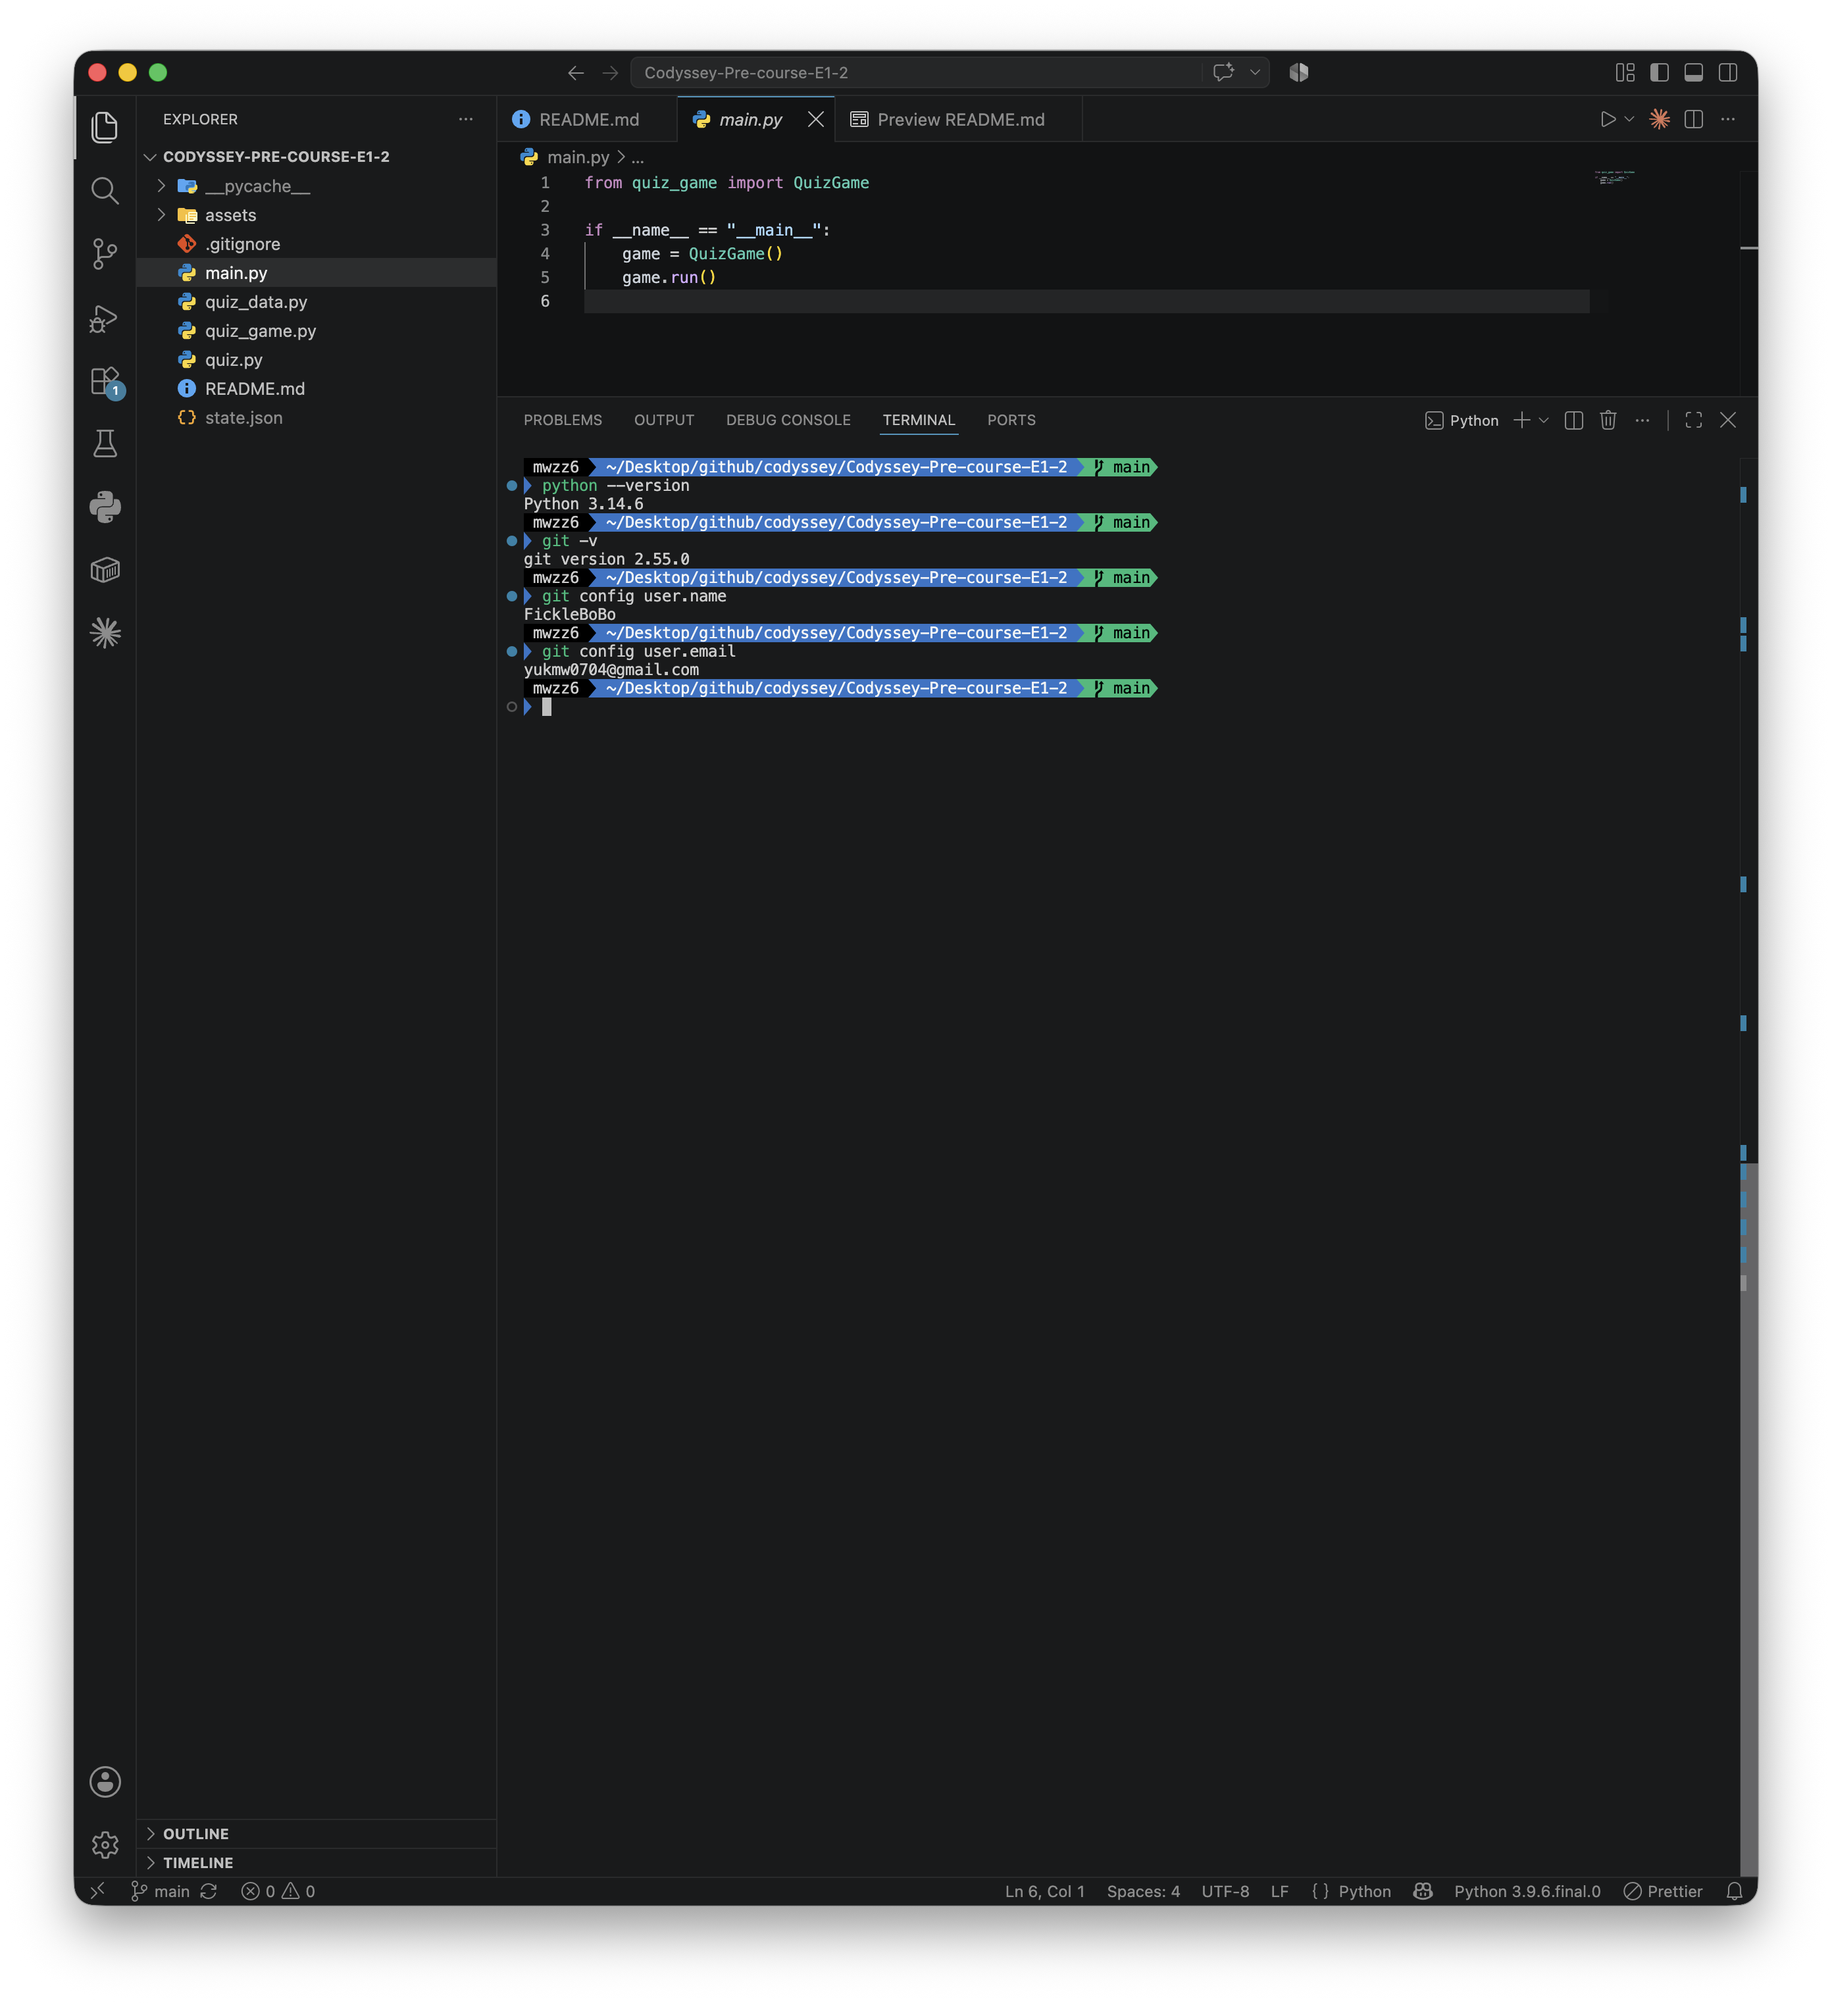
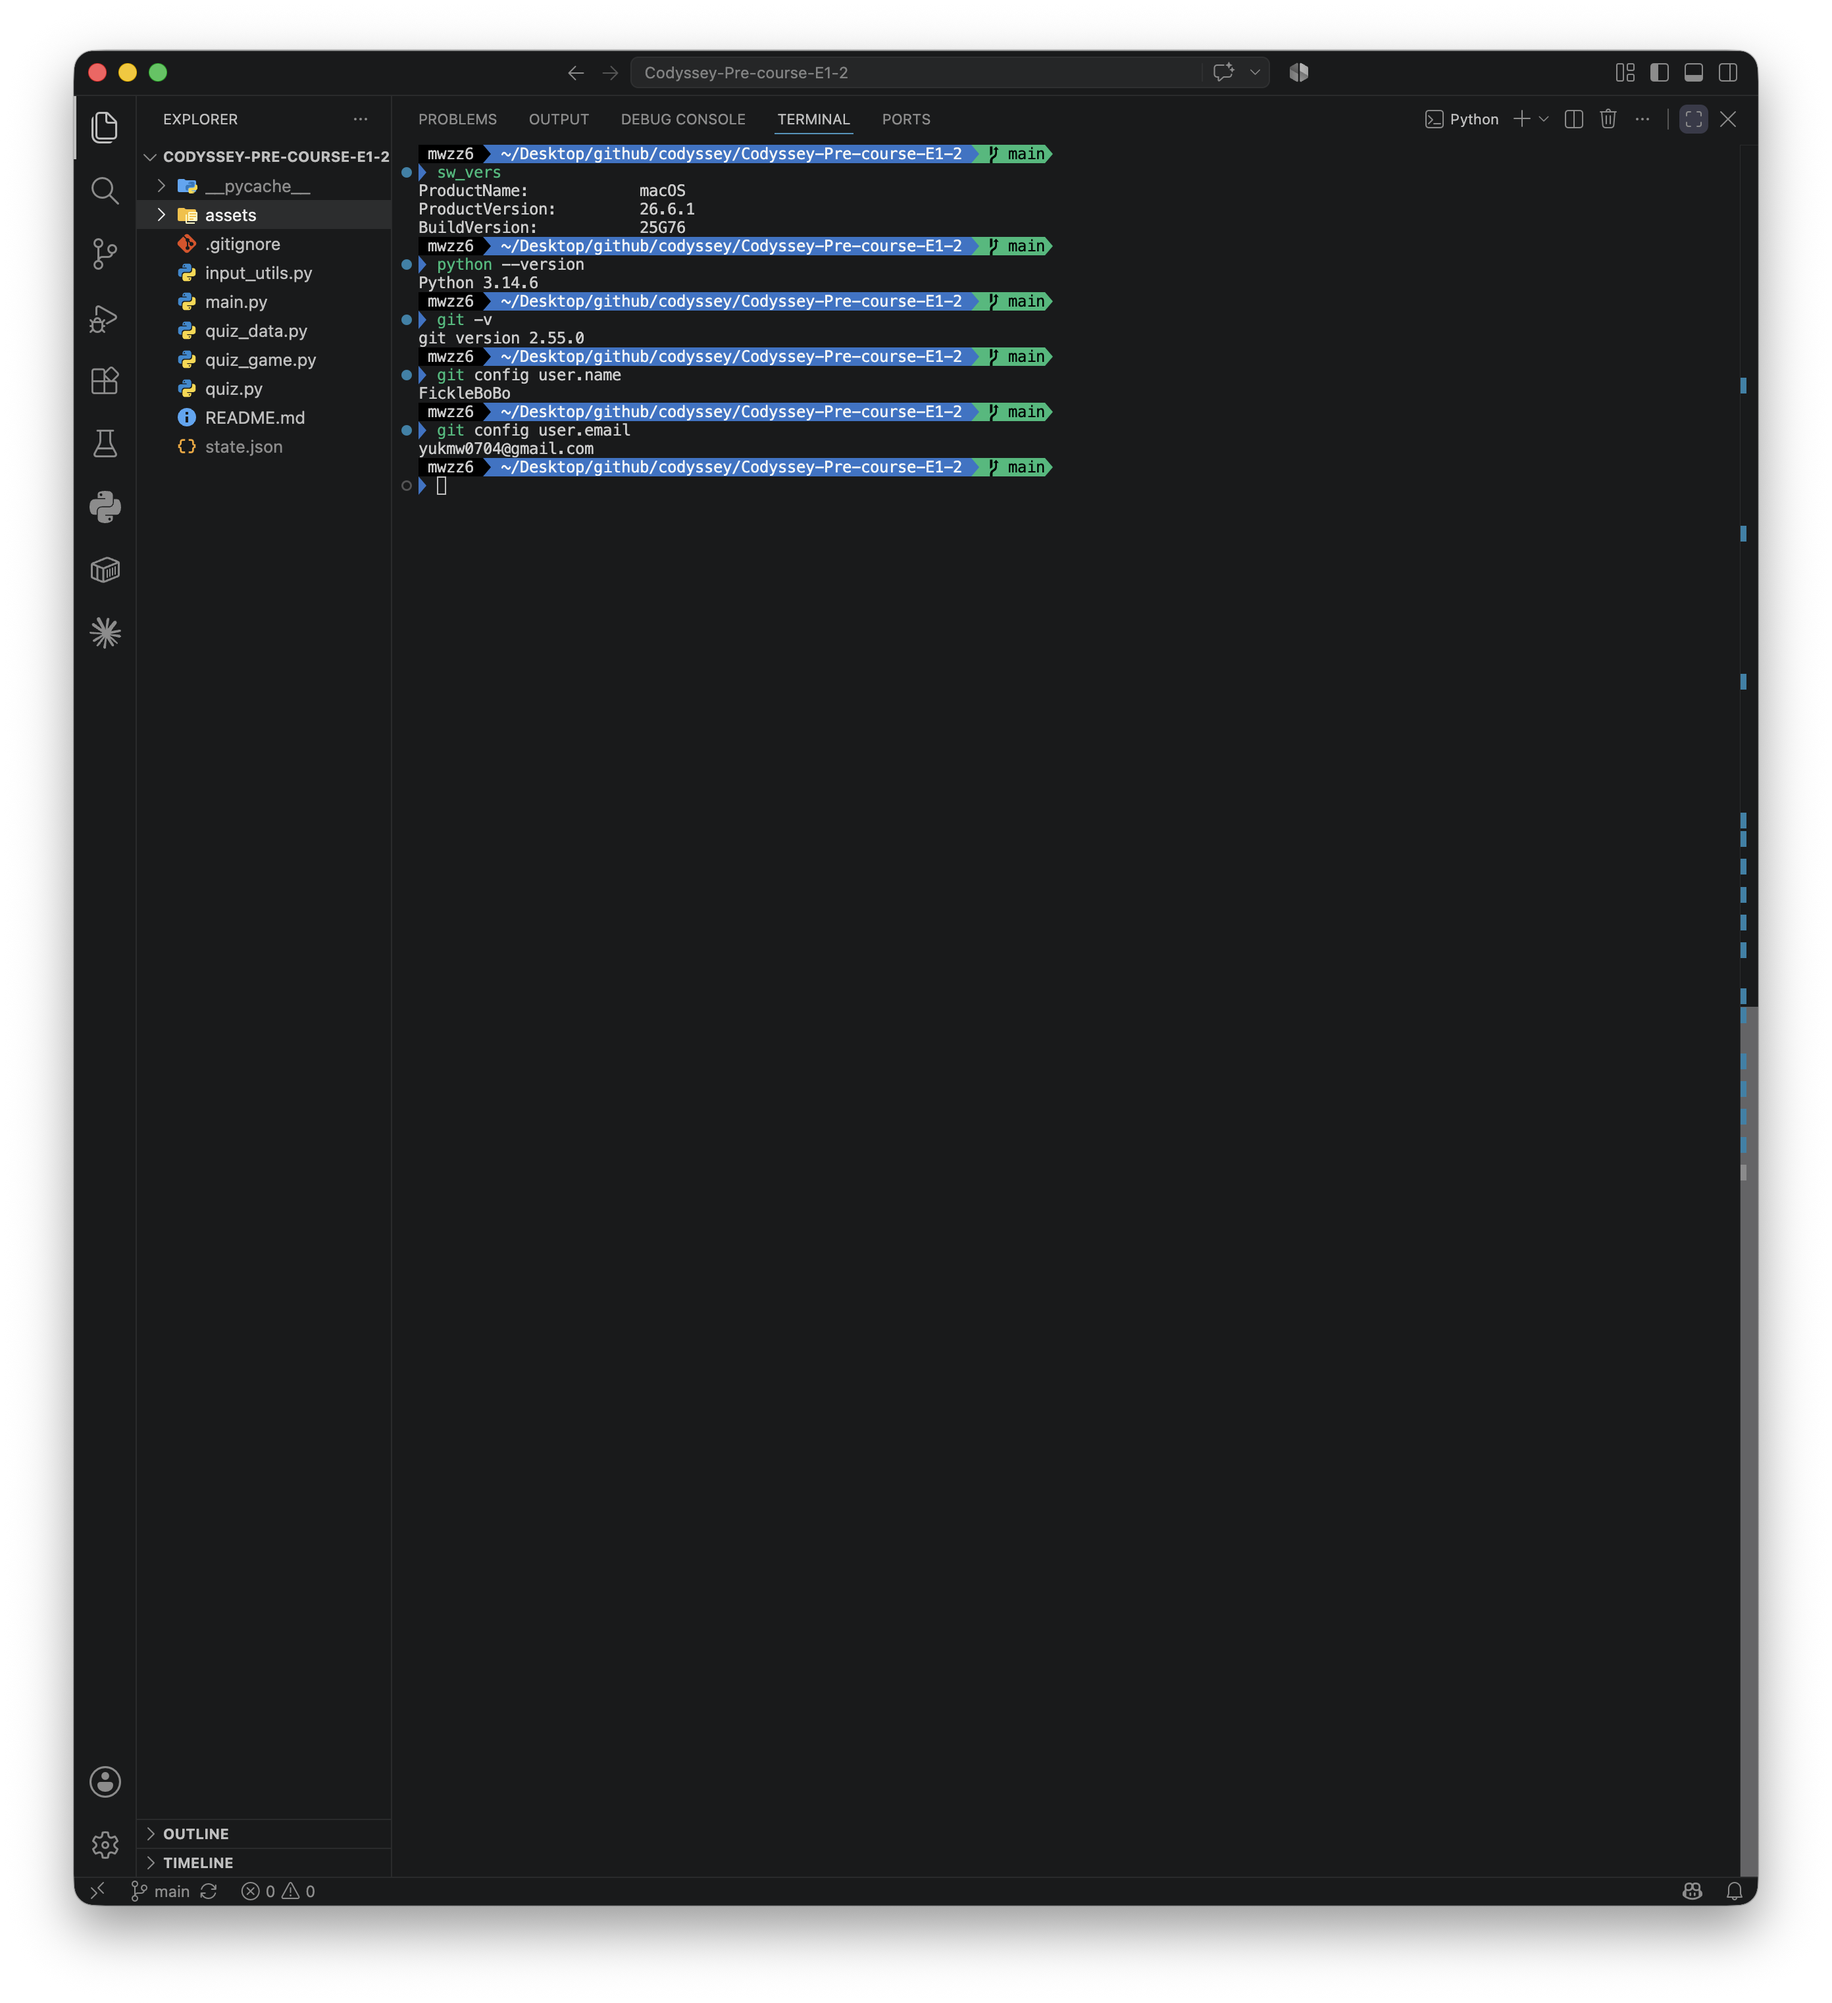
docs: 실행 화면 스크린샷 및 Git 히스토리 재촬영, README 최신화

diff --git a/README.md b/README.md
@@ -54,13 +54,31 @@ python main.py
 
 ## 실행 화면
 
-**퀴즈 풀기**
+메뉴 1번부터 6번까지 순서대로 실제 실행한 화면.
+
+**1. 퀴즈 풀기** — 풀 문제 수 선택 → 무작위 순서로 출제 → 정답 대신 `0` 입력 시 힌트 확인 → 결과 및 최고 점수 갱신 여부 표시
 
 ![퀴즈 풀기](assets/quiz_play.png)
 
-**퀴즈 추가 / 퀴즈 목록 / 점수 확인** (재실행 후 저장된 데이터 불러오기 확인 포함)
+**2. 퀴즈 추가** — 문제/선택지 4개/정답 번호/힌트를 입력받아 등록
 
-![퀴즈 추가, 퀴즈 목록, 점수 확인](assets/quiz_add_list_score.png)
+![퀴즈 추가](assets/quiz_add.png)
+
+**3. 퀴즈 삭제** — 목록에서 번호를 선택해 삭제
+
+![퀴즈 삭제](assets/quiz_delete.png)
+
+**4. 퀴즈 목록** — 삭제 후 갱신된 목록 확인 (저장된 데이터 불러오기 확인 포함)
+
+![퀴즈 목록](assets/quiz_list.png)
+
+**5. 점수 확인** — 최고 점수와 회차별 전체 게임 기록(날짜/시간, 문제 수, 점수, 힌트 사용 수)
+
+![점수 확인](assets/quiz_score.png)
+
+**6. 종료** — 데이터 저장 후 안전하게 종료
+
+![종료](assets/quiz_exit.png)
 
 ---
 
@@ -118,7 +136,7 @@ python main.py
 
 ## Git 히스토리
 
-기능 단위 커밋, `feat/quiz` 브랜치 생성 및 `main` 병합 이력.
+기능 단위 커밋, `feat/quiz`·`feat/bonus` 브랜치 생성 및 `main` 병합 이력.
 
 ![git log --oneline --graph](assets/git_log.png)
 
